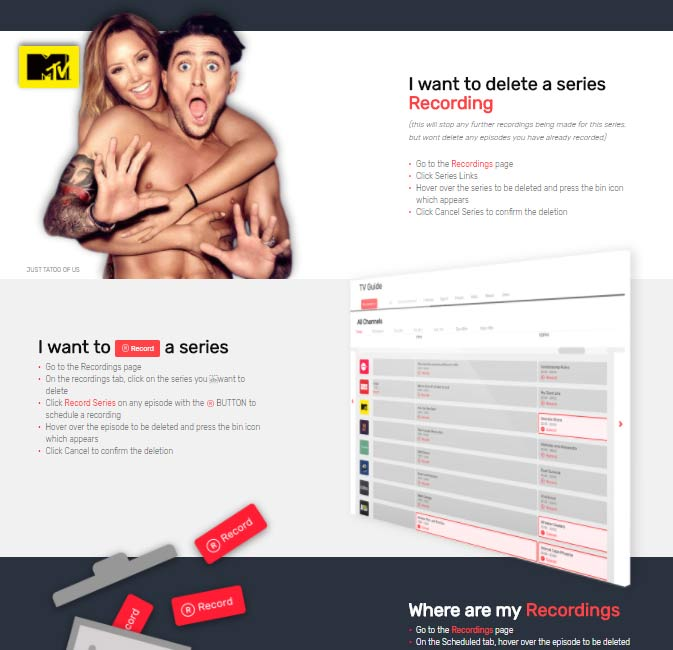
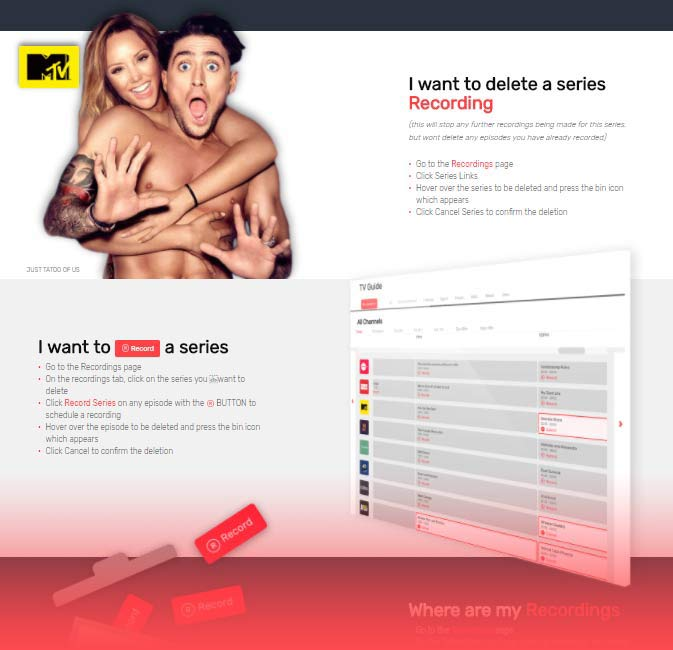
styling for pages

Changed region(s): [[0.0, 0.7692, 1.0, 1.0]]

diff --git a/npvr.php b/npvr.php
@@ -49,7 +49,7 @@ $body = 'not-home tvp'
         </div>
         <div class="row tvp-solid-bg">
             <div class="col-md-10 col-md-offset-1">
-                <img class="img-responsive center pt-20" src="img/how-to-record.jpg"/>
+                <img class="img-responsive center  mt-30" src="img/how-to-record.jpg"/>
             </div>
         </div>
         <div class="row task-description tvp-solid-bg">

diff --git a/tvp-react-tvguide.php b/tvp-react-tvguide.php
@@ -41,7 +41,7 @@ $body = 'not-home tvp'
         </div>
         <div class="row tvp-solid-bg">
             <div class="col-md-10 col-md-offset-1">
-                <img class="img-responsive center" src="img/tvguide-modal.jpg"/>
+                <img class="img-responsive center  mt-30" src="img/tvguide-modal.jpg"/>
             </div>
         </div>
         <div class="row task-description tvp-solid-bg">
